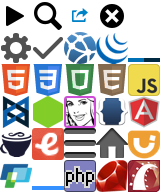
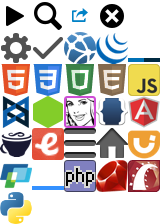
Add Python documentation

diff --git a/assets/stylesheets/pages/_sphinx.scss b/assets/stylesheets/pages/_sphinx.scss
@@ -1,0 +1,26 @@
+._sphinx {
+  h2, h3 { @extend %block-heading; }
+  dl:not(.docutils) > dt { @extend %block-label, %label-blue; }
+  dt + dt { margin-top: -.5em; }
+
+  .note, .admonition, .versionadded, .versionchanged, .deprecated-removed { @extend %note; }
+  .deprecated-removed { @extend %note-red; }
+  .versionmodified { font-weight: bold; }
+
+  p > code, li > code { @extend %label; }
+
+  .admonition-title {
+    float: left;
+    margin: 0 .5em 0 0;
+    font-weight: bold;
+
+    &:after { content: ':'; }
+  }
+
+  .admonition > dl {
+    clear: left;
+    margin: 0;
+  }
+
+  ul.simple { margin: 1em 0; }
+}

diff --git a/assets/stylesheets/global/_icons.scss b/assets/stylesheets/global/_icons.scss
@@ -4,7 +4,7 @@
   width: 1rem;
   height: 1rem;
   background-image: image-url('icons.png');
-  background-size: 5rem 6rem;
+  background-size: 5rem 7rem;
 }
 
 @media (-webkit-min-device-pixel-ratio: 1.5), (min-resolution: 144dpi) {
@@ -41,3 +41,4 @@
 ._icon-php:before           { background-position: -2rem -5rem; }
 ._icon-ruby:before          { background-position: -3rem -5rem; }
 ._icon-rails:before         { background-position: -4rem -5rem; }
+._icon-python:before        { background-position: 0 -6rem; }

diff --git a/assets/stylesheets/application.css.scss b/assets/stylesheets/application.css.scss
@@ -38,5 +38,6 @@
         'pages/php',
         'pages/rdoc',
         'pages/rfc',
+        'pages/sphinx',
         'pages/underscore',
         'pages/yard';

diff --git a/assets/stylesheets/components/_content.scss b/assets/stylesheets/components/_content.scss
@@ -153,7 +153,6 @@
 %lined-heading {
   white-space: nowrap;
   overflow: hidden;
-  overflow-wrap: normal;
   word-wrap: normal;
 
   &:after {

diff --git a/lib/docs/filters/python/entries.rb b/lib/docs/filters/python/entries.rb
@@ -1,0 +1,82 @@
+module Docs
+  class Python
+    class EntriesFilter < Docs::EntriesFilter
+      REPLACE_TYPES = {
+        'Cryptographic'                           => 'Cryptography',
+        'Custom Interpreters'                     => 'Interpreters',
+        'Data Compression & Archiving'            => 'Data Compression',
+        'Generic Operating System'                => 'Operating System',
+        'Graphical User Interfaces with Tk'       => 'Tk',
+        'Internet Data Handling'                  => 'Internet Data',
+        'Internet Protocols & Support'            => 'Internet',
+        'Interprocess Communication & Networking' => 'Networking',
+        'Program Frameworks'                      => 'Frameworks',
+        'Structured Markup Processing Tools'      => 'Structured Markup' }
+
+      def get_name
+        name = at_css('h1').content
+        name.sub! %r{\A[\d\.]+ }, ''    # remove list number
+        name.sub! %r{ \u{2014}.+\z}, '' # remove text after em dash
+        name
+      end
+
+      def get_type
+        return 'Logging' if slug.start_with? 'library/logging'
+
+        type = at_css('.related a[accesskey="U"]').content
+
+        if type == 'The Python Standard Library'
+          type = at_css('h1').content
+        elsif type.start_with? '19'
+          type = 'Internet Data Handling'
+        end
+
+        type.sub! %r{\A\d+\.\s+}, '' # remove list number
+        type.sub! "\u{00b6}", ''     # remove paragraph character
+        type.sub! ' and ', ' & '
+        [' Services', ' Modules', ' Specific', 'Python '].each { |str| type.sub! str, '' }
+
+        REPLACE_TYPES[type] || type
+      end
+
+      def include_default_entry?
+        name !~ /[A-Z]/ && !skip? # skip non-module names
+      end
+
+      def additional_entries
+        return [] if root_page? || skip? || name == 'errno'
+        clean_id_attributes
+        entries = []
+
+        css('.class > dt[id]', '.exception > dt[id]', '.attribute > dt[id]').each do |node|
+          entries << [node['id'], node['id']]
+        end
+
+        css('.data > dt[id]').each do |node|
+          if node['id'].split('.').last.upcase! # skip constants
+            entries << [node['id'], node['id']]
+          end
+        end
+
+        css('.function > dt[id]', '.method > dt[id]', '.classmethod > dt[id]').each do |node|
+          entries << [node['id'] + '()', node['id']]
+        end
+
+        entries
+      end
+
+      def skip?
+        type == 'Language'
+      end
+
+      def clean_id_attributes
+        css('.section > .target[id]').each do |node|
+          if dt = node.at_css('+ dl > dt')
+            dt['id'] ||= node['id'].sub(/\w+\-/, '')
+          end
+          node.remove
+        end
+      end
+    end
+  end
+end

diff --git a/lib/docs/filters/python/clean_html.rb b/lib/docs/filters/python/clean_html.rb
@@ -1,0 +1,68 @@
+module Docs
+  class Python
+    class CleanHtmlFilter < Filter
+      def call
+        @doc = at_css '.body > .section'
+
+        # Clean inline code elements
+
+        css('tt.literal').each do |node|
+          node.before(node.children).remove
+        end
+
+        css('tt', 'span.pre').each do |node|
+          node.name = 'code'
+          node.remove_attribute 'class'
+        end
+
+        root_page? ? root : other
+
+        doc
+      end
+
+      def root
+        at_css('h1').content = 'Python'
+        css('> p').remove
+      end
+
+      def other
+        css('.headerlink', 'hr').remove
+
+        # Clean headings
+
+        at_css('h1').tap do |node|
+          node.content = node.content.sub!(/\A[\d\.]+/) { |str| @levelRegexp = /\A#{str}/; '' }
+        end
+
+        css('h2', 'h3', 'h4').each do |node|
+          node.css('a').each do |link|
+            link.before(link.children).remove
+          end
+          node.child.content = node.child.content.sub @levelRegexp, ''
+        end
+
+        css('dt').each do |node|
+          node.content = node.content
+        end
+
+        # Remove blockquotes
+        css('blockquote').each do |node|
+          node.before(node.children).remove
+        end
+
+        # Remove code highlighting
+        css('.highlight-python3').each do |node|
+          pre = node.at_css('pre')
+          pre.content = pre.content
+          pre['class'] = 'python'
+          node.replace(pre)
+        end
+
+        # Remove <table> border attribute
+        css('table[border]').each do |node|
+          node.remove_attribute 'border'
+        end
+      end
+    end
+  end
+end

diff --git a/lib/docs/scrapers/python.rb b/lib/docs/scrapers/python.rb
@@ -1,0 +1,27 @@
+module Docs
+  class Python < FileScraper
+    self.version = '3.3.3'
+    self.type = 'sphinx'
+    self.dir = '/Users/Thibaut/DevDocs/Docs/Python' # downloaded from docs.python.org/3/download.html
+    self.base_url = 'http://docs.python.org/3/'
+    self.root_path = 'library/index.html'
+
+    html_filters.push 'python/entries', 'python/clean_html'
+
+    options[:only_patterns] = [/\Alibrary\//]
+
+    options[:skip] = %w(
+      library/2to3.html
+      library/formatter.html
+      library/index.html
+      library/intro.html
+      library/undoc.html
+      library/unittest.mock-examples.html
+      library/sunau.html)
+
+    options[:attribution] = <<-HTML
+      &copy; 1990&ndash;2013 Python Software Foundation<br>
+      Licensed under the PSF License.
+    HTML
+  end
+end
